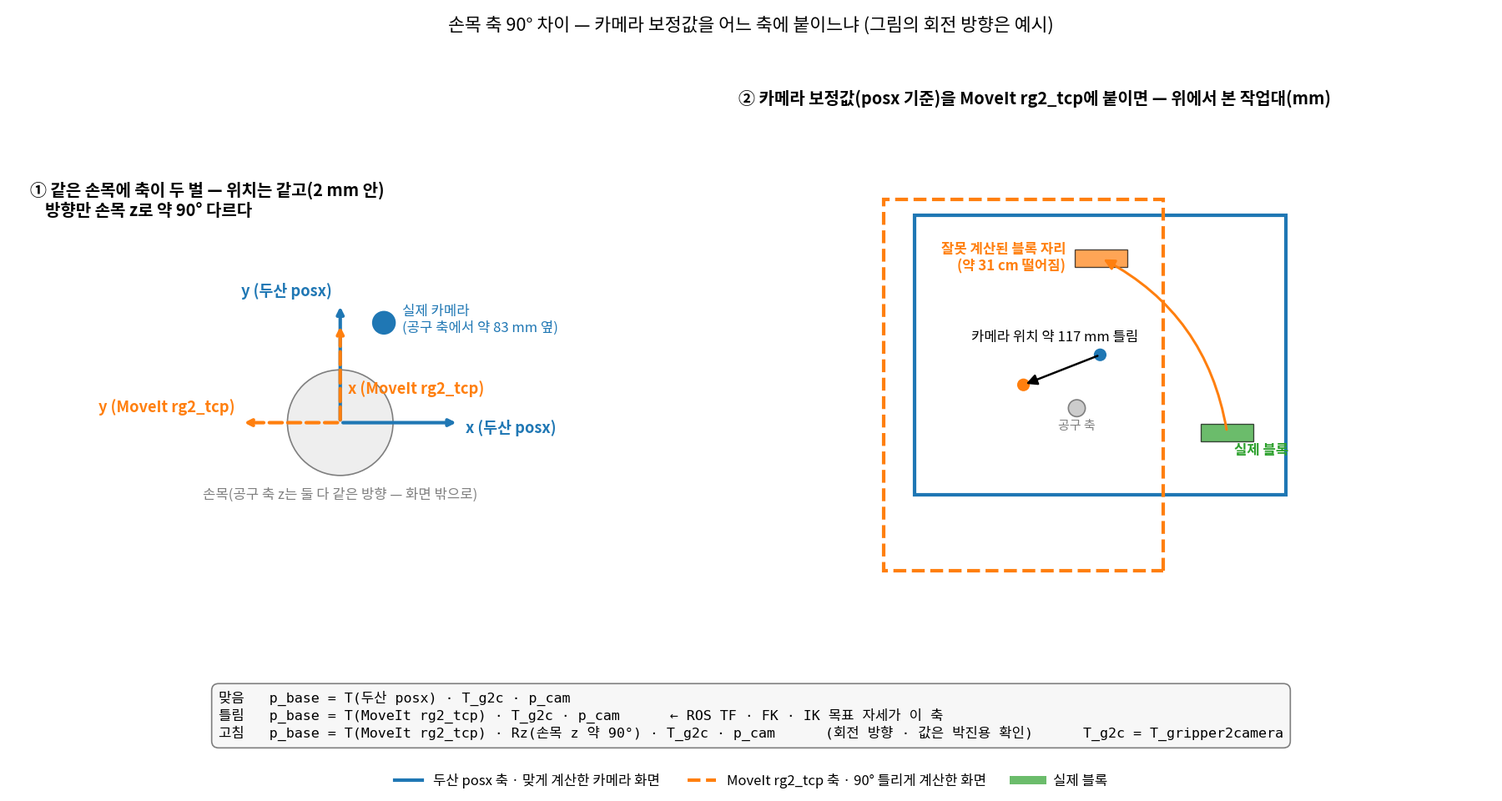
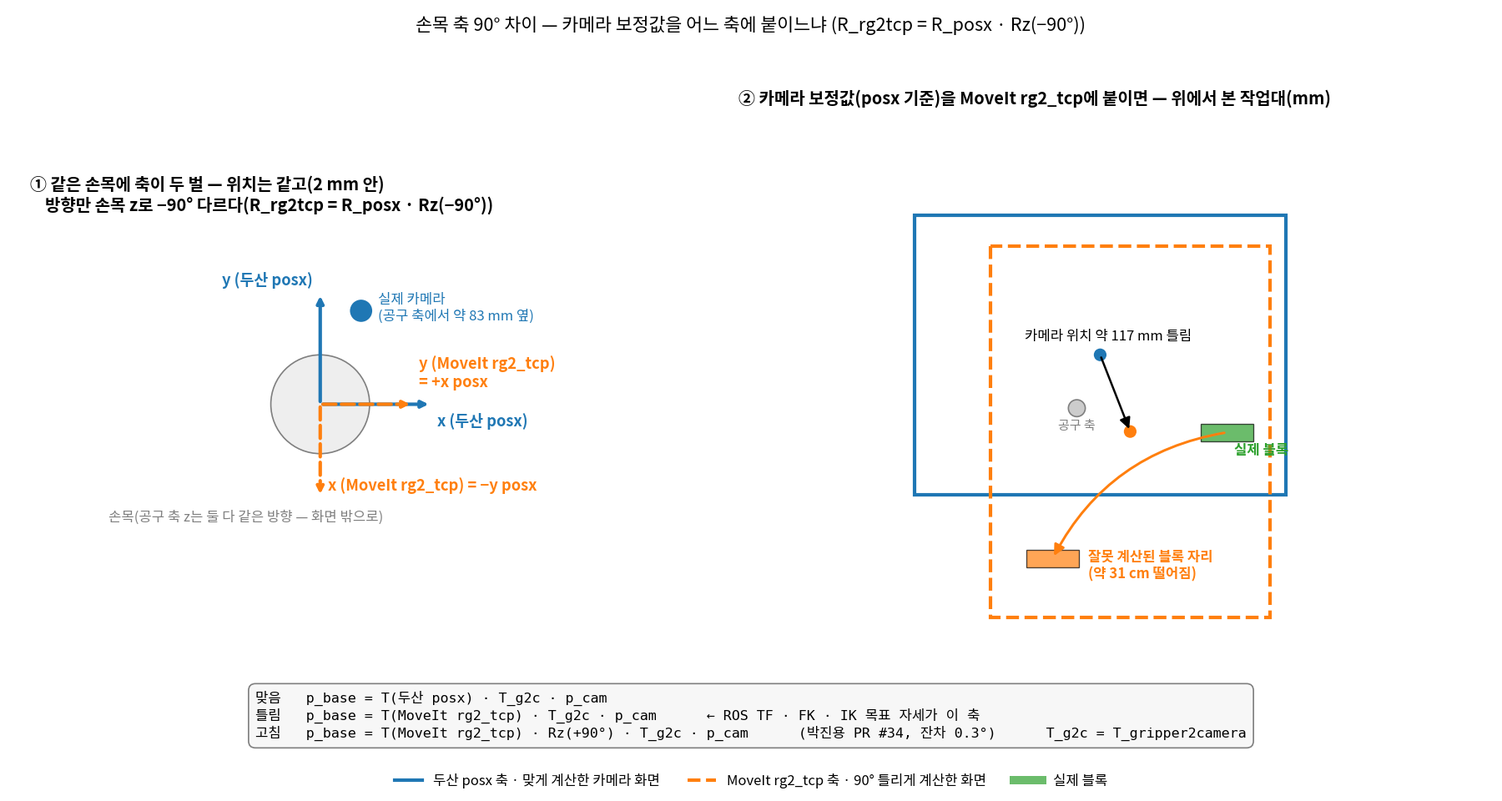
docs: 손목 축 방향 확정 R_rg2tcp = R_posx · Rz(−90°) + 손목 보정 수평 오차 약 10.7 mm 기록 (10/7 박진용)
- 방향 · 값(박진용 PR #34, 잔차 0.3°): MoveIt 자세로 카메라를 구할 땐 T(rg2_tcp) · Rz(+90°) · T_gripper2camera, IK로 카메라 시점은 T_rg2tcp = T_cam · T_g2c⁻¹ · Rz(−90°). 그림의 회전 방향도 확정값으로.
- 세 번째 원인: 손목 보정 수평 오차 약 10.7 mm(그리퍼 틀 (−1.1, +10.7) mm, 손목을 따라 돌아감) → find_blocks · 스캔 약 1 cm 밀림, V-15 미달, 보정 다시(민범진).

변경 파일: CHANGES.md, README.md, docs/01_요구사항_BR-SR_v3_100714.md, docs/02_인터페이스_IRD_v3_100714.md, docs/03_설계_SDD_v3_100714.md, docs/04_결과_결과표_v2_100714.md, docs/README.md, docs/decisions/결정기록_PC배치_MQTT_CI_1006_v1_100714.md, docs/decisions/결정기록_주제확정_1003_v1_100415.md, docs/images/손목축_posx_rg2tcp_90도_v1_100714.png, docs/research/README.md, docs/test-reports/README.md, docs/test-reports/V-01-04_블록쌓기실험_황인재_한세교_v1_100314.md, docs/test-reports/V-08_MoveIt2_가상시험_박진용_v1_100316.md
영향: 비전(W115 · W086 · 보정) · 로봇 동작 — 문서만
완료: 없음

diff --git a/docs/decisions/결정기록_PC배치_MQTT_CI_1006_v1_100714.md b/docs/decisions/결정기록_PC배치_MQTT_CI_1006_v1_100714.md
@@ -55,7 +55,7 @@
 
 ## 6. 이 결정으로 바뀐 문서
 
-[IRD v3](../02_인터페이스_IRD_v3_100714.md)(3장 노드 표 · 10장 MQTT 다리 · 9장 `mqtt.*` · 11장 mock · 12장 미정) · [SDD v3](../03_설계_SDD_v3_100714.md)(1장 PC 배치 · 2장 네트워크 · 3장 패키지 `web/` · `d2_bridge` · 9장 시험 계획 CI) · [01 요구사항 v3](../01_요구사항_BR-SR_v3_100714.md)(FR-T05 · T07 · NFR-09 · 10 · 16 · TR-01 · 03 · 06 · 10 · 13) · [05 작업 분류](../05_작업분류_파트별_v2_100714.md)(W029 · W047 · W102 · W088 바뀜, 새 작업 W126~W129) · [06 팀 규칙](../06_팀협업규칙_v1_100712.md)(PR 검사 · CI · 컨테이너) · [04 결과표](../04_결과_결과표_v2_100713.md)(AC-T · V-33) · [시스템 아키텍처 v4](../images/) · [아키텍처 설명 v3](../시스템아키텍처_설명_v3_100713.md) · [env](../env/README.md) · 에이전트 프롬프트 v4 · README · `CLAUDE.md` · 일정표 v8 · `.github/workflows/ci.yml` · `tests/`
+[IRD v3](../02_인터페이스_IRD_v3_100714.md)(3장 노드 표 · 10장 MQTT 다리 · 9장 `mqtt.*` · 11장 mock · 12장 미정) · [SDD v3](../03_설계_SDD_v3_100714.md)(1장 PC 배치 · 2장 네트워크 · 3장 패키지 `web/` · `d2_bridge` · 9장 시험 계획 CI) · [01 요구사항 v3](../01_요구사항_BR-SR_v3_100714.md)(FR-T05 · T07 · NFR-09 · 10 · 16 · TR-01 · 03 · 06 · 10 · 13) · [05 작업 분류](../05_작업분류_파트별_v2_100714.md)(W029 · W047 · W102 · W088 바뀜, 새 작업 W126~W129) · [06 팀 규칙](../06_팀협업규칙_v1_100712.md)(PR 검사 · CI · 컨테이너) · [04 결과표](../04_결과_결과표_v2_100714.md)(AC-T · V-33) · [시스템 아키텍처 v4](../images/) · [아키텍처 설명 v3](../시스템아키텍처_설명_v3_100713.md) · [env](../env/README.md) · 에이전트 프롬프트 v4 · README · `CLAUDE.md` · 일정표 v8 · `.github/workflows/ci.yml` · `tests/`
 
 ## 7. 10/6 20시 추가 결정 — 흩어진 블록 집기를 핵심으로 (E-36~E-38)
 
@@ -108,7 +108,7 @@ PL 질문 "비전팀이 학습시킬 모델이 없나?" → 흩어진 블록 집
 |---|---|---|
 | **E-43** | **한쪽이 다른 블록에 걸쳐 기울어진 블록.** 핵심: `find_blocks`가 윤곽 안 깊이로 기울기를 재 양 끝 높이 차가 5 mm(안) 이상이면 `tilted: true`(안)로 낸다 — 윗면 높이 하나로만 자세를 정하면 평균 약 22 mm라 옆세움(25)과 헷갈리고, '가장 높은 것부터' 규칙(E-36 — 10/7 E-46으로 바뀜)에 먼저 골라진다. 작업 판단은 **기울어진 블록과 그 블록이 걸친(닿은) 블록은 고르지 않고 다른 블록부터** 집는다. 그런 블록만 남으면 `WAIT_SUPPLY` + 알림 `tilted_block`(안, "기울어진 블록을 바로 놓아 주세요") → 사람이 바로 놓고 [계속]. **챌린지 ④(나중에): 기울어진 블록을 집어 공급 영역 빈 자리에 눕혀 놓고 다시 집기**(2단계, 세우기 E-37과 같은 방식). **챌린지를 구현 못 하면 문서 · 일정표에서 지운다** | PL 10/7 09시 |
 
-**이 결정으로 바뀐 문서(10/7):** [01 요구사항](../01_요구사항_BR-SR_v3_100714.md) BR-09 · 2.4 · FR-S03 · S04 · AC-C4 · V-54 · [IRD](../02_인터페이스_IRD_v3_100714.md) `find_blocks` · `message_id` · [SDD](../03_설계_SDD_v3_100714.md) §6.11 · §10 · [04 결과표](../04_결과_결과표_v2_100713.md) 2-3 · [05 작업 분류](../05_작업분류_파트별_v2_100714.md) W086 · W130 · 6장 · 새 작업 W135 · [아키텍처 설명](../시스템아키텍처_설명_v3_100713.md) · 에이전트 프롬프트 · 일정표 v10
+**이 결정으로 바뀐 문서(10/7):** [01 요구사항](../01_요구사항_BR-SR_v3_100714.md) BR-09 · 2.4 · FR-S03 · S04 · AC-C4 · V-54 · [IRD](../02_인터페이스_IRD_v3_100714.md) `find_blocks` · `message_id` · [SDD](../03_설계_SDD_v3_100714.md) §6.11 · §10 · [04 결과표](../04_결과_결과표_v2_100714.md) 2-3 · [05 작업 분류](../05_작업분류_파트별_v2_100714.md) W086 · W130 · 6장 · 새 작업 W135 · [아키텍처 설명](../시스템아키텍처_설명_v3_100713.md) · 에이전트 프롬프트 · 일정표 v10
 
 ## 13. 10/7 10~11시 추가 결정 — 레시피 형식 이름 · 스캔 일치율 기준 (E-44 · E-45)
 
@@ -117,7 +117,7 @@ PL 질문 "비전팀이 학습시킬 모델이 없나?" → 흩어진 블록 집
 | **E-44** | **레시피 형식 이름 = `cad_recipe/1.0`**(10/7 11시 PL — 10시 결정을 고침). **파일 이름 `<모델ID>.recipe.json`은 그대로**(`_recipe.json`으로 바꾸지 않는다). 코드는 W121(1차 판정 뒤)에 이 순서로 바꾼다: ① 변환기 ② `SCHEMA_IN`이 `assembly.recipe/1.0` · `cad_recipe/1.0` 둘 다 받음(한석형) → ② 레시피 3종 + `recipe_manager` 출력을 `cad_recipe/1.0`으로(한세교) → ③ 변환기 ②는 `cad_recipe/1.0`만 받고 시험 fixture도 바꿈(한석형). 옛 Advanced 형식 `m0609.jenga.cad_recipe/1.0`(구조가 다름) 읽기는 `motion_math`에 그대로 둔다 | 10시에는 '이름만 바꾸면 순서가 어긋날 때 조립이 멈춘다'는 이유로 `assembly.recipe/1.0` 유지로 정했으나, 그 전에 PL이 한세교와 `cad_recipe/1.0`(W121)을 합의했었다(한세교 재검토 요청). 읽는 쪽이 두 이름을 먼저 다 받으면 그 위험이 없고(이름 검사는 변환기 ② 한 곳), 레시피 안 모델 · 계획은 이미 `cad_model` · `cad_plan`(PR #25)이라 이름이 맞춰진다. 파일 이름 변경은 `d2_bringup/setup.py`(레시피 설치 glob) · `scene_manager_node` · `run_recipe`가 `*.recipe.json`을 찾아 실기 경로를 건드려서 하지 않는다 |
 | **E-45** | **V-48 스캔 일치율에서 블록 하나 '맞음' = 정답과 같은 격자 자리 + 같은 방향**(x · y · xe · ye · zx · zy). mm 거리 기준은 두지 않는다. **일치율 = 맞은 수 ÷ (정답 · 추론 블록 수 중 큰 쪽)** — 놓친 블록과 없는 블록을 둘 다 감점, 추정(`inferred`) 블록도 센다. **원점 = 추론 결과의 바닥 외곽 가운데를 (0,0)으로**(정답 blocks JSON과 같은 기준, IRD 12장 안 그대로). **정답 = 레시피를 변환기 ②로 바꾼 blocks JSON** — 10/7 W114에서 기본 설계 3개(벤치 · 의자 Lv2 · 책상 Lv4)를 층별 배치 그림대로 사람이 쌓고, 책상 벽형은 레시피가 나온 뒤 10/10 이후 따로 찍는다(10/7 11시 PL) | 스캔 추론기가 블록을 15 · 25 · 75 mm 격자에 맞춰 놓으므로 자리는 칸으로만 갈린다 — 판정이 단순하고 애매한 경우가 없다(10/7 민범진 질문 → PL) |
 
-**이 결정으로 바뀐 문서(10/7):** [01 요구사항](../01_요구사항_BR-SR_v3_100714.md) FR-C03 · FR-D07 · IR-11 · 용어 · FR-N02 · V-48 · [IRD](../02_인터페이스_IRD_v3_100714.md) `get_design` · `check_result/1` · [SDD](../03_설계_SDD_v3_100714.md) 변환기 ① · 스캔 · [04 결과표](../04_결과_결과표_v2_100713.md) V-48 · [05 작업 분류](../05_작업분류_파트별_v2_100714.md) · [시스템 아키텍처 설명](../시스템아키텍처_설명_v3_100713.md) · README · 에이전트 프롬프트. 같은 때 **10/9 계획을 문서에서 뺐다**(10/5 PL: 10/9 '작업 없음'은 일정표에만) — 스캔 추론기(W115) 10/8 저녁 · 10/10~11, 스캔 복제 10/10~12, 10/9 마감이던 열린 질문은 10/10.
+**이 결정으로 바뀐 문서(10/7):** [01 요구사항](../01_요구사항_BR-SR_v3_100714.md) FR-C03 · FR-D07 · IR-11 · 용어 · FR-N02 · V-48 · [IRD](../02_인터페이스_IRD_v3_100714.md) `get_design` · `check_result/1` · [SDD](../03_설계_SDD_v3_100714.md) 변환기 ① · 스캔 · [04 결과표](../04_결과_결과표_v2_100714.md) V-48 · [05 작업 분류](../05_작업분류_파트별_v2_100714.md) · [시스템 아키텍처 설명](../시스템아키텍처_설명_v3_100713.md) · README · 에이전트 프롬프트. 같은 때 **10/9 계획을 문서에서 뺐다**(10/5 PL: 10/9 '작업 없음'은 일정표에만) — 스캔 추론기(W115) 10/8 저녁 · 10/10~11, 스캔 복제 10/10~12, 10/9 마감이던 열린 질문은 10/10.
 
 ## 14. 10/7 11시 추가 결정 — 집을 블록 고르기 기준 (E-46)
 
@@ -143,7 +143,7 @@ PL 질문 "비전팀이 학습시킬 모델이 없나?" → 흩어진 블록 집
 |---|---|---|
 | **E-50** | **10/7 1차 판정(판정 회의 W072)을 없앤다.** 1차 범위(자동 조립 + 정지)와 수락 기준 AC-1(벤치 11개 3번 중 2번) · AC-3(정지 입력 4개 + 펜던트)은 그대로 두고, 결과는 실기 기록(W063 · W059)으로 04 결과표에 채운다. 일정표 W072는 '뺀 작업' 시트로 옮기고 번호는 다시 쓰지 않는다. W072에 같이 있던 '챌린지 순서 · 담당 확정'은 새 작업 **W136 — 10/8 오전 전원 회의**로 뗀다(10/7 14시 PL). **1차 판정용 작업 W022(녹화) · W063(자동 조립 실기) · W097(기능별 통합 ②)도 '뺀 작업'으로**(10/7 14시 PL) — W063의 벤치 11/11 실기 기록은 AC-1 결과로 남긴다 | PL 10/7 13시 · 14시 |
 
-**이 결정으로 바뀐 문서(10/7):** [README](../../README.md) · [01 요구사항](../01_요구사항_BR-SR_v3_100714.md) 머리표 · S3 · [IRD](../02_인터페이스_IRD_v3_100714.md) 8.1 · [SDD](../03_설계_SDD_v3_100714.md) §9.1 · §9.2 · [04 결과표](../04_결과_결과표_v2_100713.md) · [05 작업 분류](../05_작업분류_파트별_v2_100714.md) · [docs README](../README.md) · [시스템 아키텍처 설명](../시스템아키텍처_설명_v3_100713.md) · 결정 기록 E-23 표시 · 에이전트 프롬프트 · 일정표 v10(W072 → 뺀 작업). '1차' 범위 이름(수락 기준 · 요구사항 우선순위의 '1차')은 그대로 둔다
+**이 결정으로 바뀐 문서(10/7):** [README](../../README.md) · [01 요구사항](../01_요구사항_BR-SR_v3_100714.md) 머리표 · S3 · [IRD](../02_인터페이스_IRD_v3_100714.md) 8.1 · [SDD](../03_설계_SDD_v3_100714.md) §9.1 · §9.2 · [04 결과표](../04_결과_결과표_v2_100714.md) · [05 작업 분류](../05_작업분류_파트별_v2_100714.md) · [docs README](../README.md) · [시스템 아키텍처 설명](../시스템아키텍처_설명_v3_100713.md) · 결정 기록 E-23 표시 · 에이전트 프롬프트 · 일정표 v10(W072 → 뺀 작업). '1차' 범위 이름(수락 기준 · 요구사항 우선순위의 '1차')은 그대로 둔다
 
 ## 17. 10/7 14시 추가 결정 — 10/9 · 비전 10/8~11 담당 · 우선순위 (E-51)
 

diff --git a/docs/test-reports/README.md b/docs/test-reports/README.md
@@ -1,6 +1,6 @@
 # 시험 기록 (test-reports) — 색인
 
-> 실기 · 가상 시험 기록 중 **설계 · 결과의 근거가 되는 것**을 모은다. 요약 수치는 [결과표](../04_결과_결과표_v2_100713.md)에 있다. 영상 · 코드 · 압축 파일은 저장소에 넣지 않는다(팀 노션 결과 페이지).
+> 실기 · 가상 시험 기록 중 **설계 · 결과의 근거가 되는 것**을 모은다. 요약 수치는 [결과표](../04_결과_결과표_v2_100714.md)에 있다. 영상 · 코드 · 압축 파일은 저장소에 넣지 않는다(팀 노션 결과 페이지).
 >
 > 파일 이름: `<ID>_<내용>_<이름>_v1_<MMDDHH>.md` (예: `V-01-04_블록쌓기실험_황인재_한세교_v1_100314.md`). ID는 검증 항목 번호(V-xx) 또는 위험 · 할 일 번호(R-xx). 고칠 때는 [docs 안내](../README.md)의 문서 파일 이름 규칙대로 `tools/docver.py`를 쓴다.
 >
@@ -13,7 +13,7 @@
 | [R-01_정지수정_가상시험_v1_100415.md](R-01_정지수정_가상시험_v1_100415.md) | 10/4 R-01 정지 수정본 — Ctrl+C · 앞길 막힘 때 서기 궤적으로 서는지(원본과 비교) | 가상. 원본은 4.4~5.0초 동안 75~77° 더 감 → 수정본 Ctrl+C 7번 모두 0.58~1.12초 안에 섬. [TS-01](../troubleshooting/TS-01_정지가_안_들음_R-01_v1_100519.md) · 결정 D-11(정지 노드) · NFR-03 · 팀 규칙(정지 처리 필수)의 근거. **실기 확인 완료(10/4 오후, W010)** — 박진용이 Ctrl+C 즉시 정지를 구현해 실제 로봇에서 바로 섬(코드는 PR 예정) |
 | [W057-059_안전설정_잡기폭_오전실기_박진용_v1_100711.md](W057-059_안전설정_잡기폭_오전실기_박진용_v1_100711.md) | 10/7 오전 — 두산 안전 설정(TCP 속도 · 힘 · 충돌 감도) · 정지 입력 · 잡기 6가지 여는 폭 · 공급 칸 보정 | 실기. 속도 제한 2000 mm/s · 힘 96 N · 감도 100 %, 잡기 폭 시험 6/6. W057 · W059 · PR #27 |
 | [W048_레시피3종_실물조립_한세교_v1_100621.md](W048_레시피3종_실물조립_한세교_v1_100621.md) | 10/6 저녁 레시피 3종(001 의자 좌판 · 002 의자 등받이 · 003 책상) 실물 조립 — 10/6 교시값 · speed 0.3 | 실기. **11/11 · 16/16 · 9/9**, 블록당 20~26 s. 바닥층만 살짝 떨어뜨리듯 놓음(원인 미확정, 틈 실측 예정). W048 · PR #15 |
-| (결과 보고서는 저장소에 없음 — 수치만 결과표에) | 10/3 작업 2(한석형) — R-0 로봇 준비 · V-16 충돌 시 정지 · V-20 파지 유지 · V-11 놓을 때 밀림 | 실기. 미끄러짐 0/13 · 3층 밀림 최대 0.4 mm(스펀지 위) · 충돌 감도 100 %. [결과표](../04_결과_결과표_v2_100713.md) §3 |
+| (결과 보고서는 저장소에 없음 — 수치만 결과표에) | 10/3 작업 2(한석형) — R-0 로봇 준비 · V-16 충돌 시 정지 · V-20 파지 유지 · V-11 놓을 때 밀림 | 실기. 미끄러짐 0/13 · 3층 밀림 최대 0.4 mm(스펀지 위) · 충돌 감도 100 %. [결과표](../04_결과_결과표_v2_100714.md) §3 |
 | (결과 보고서는 저장소에 없음 — 수치만 결과표에) | 10/3 작업 4(민범진) — V-17 손목 카메라 블록 위치 · V-18 음성 받아 적기 | 실기(로봇 정지 상태) · 마이크. 놓기 전후 비교 ±0.5 mm · STT 평균 1.8초 · '정지' 5/10 → 음성 정지는 보조, 출발은 화면만(D-32 · A9-1). 결과표 §3 |
 | (결과 보고서 없음 — 결과표에) | 10/3 저녁 V-07 MoveIt2 실기(박진용) | 실기. 공중에 둔 사람 팔을 피해 감 · 끊김 · 떨림 없음(PL 확인). 수치는 10/4 재검증에서 |
 | (결과 보고서는 아직 없음 — 결과표에) | 10/4 오후 MoveIt2 실기 재검증(박진용, 일정표 W010) — MoveIt2 동작 · 실행 중 Ctrl+C 정지 | 실기. **MoveIt2 동작 정상.** 처음에는 Ctrl+C가 동작이 끝난 뒤에야 들음 → 박진용이 Ctrl+C 즉시 정지를 구현해 바로 서는 것 확인. 정지 시간 수치 ＿＿ · 블록 쥔 채 계획([TS-02](../troubleshooting/TS-02_블록_쥔_채_계획_실패_R-03_v1_100414.md))은 ＿＿ |
@@ -22,4 +22,4 @@
 | (예정 — 10/7 오전, 일정표 W059) | R-02 재시험 — 정지 → 재개 · 보호 정지 해제 · 충돌 감지 | 실기. ＿＿ |
 | (예정 — 10/7 오전, 일정표 W063) | 전체 통합 ① 자동 모드 실기 — 벤치(`001_CHAIR_BENCH`) 11개, 3번. 블록당 시간 · V-11 · V-15 · PC 부하(W053) 같이 기록. **영상도 실기 중에 찍는다**(S-12, 따로 촬영 없음) | 실기. ＿＿ / 3 |
 | (예정 — 10/7 오후, 일정표 W067 · 대비책이면 10/8 오전 W073) | 전체 통합 ② 협동 최소형 실기 — 사람 2~3개 → 화면 버튼 '내 차례 끝' → 로봇 이어 쌓기 1번. 영상도 같이 | 실기. ＿＿ |
-| (진행 중 — 결과가 오면 파일 추가) | 10/4 그리퍼 다시 재기 — 손가락 치수 · TCP · 잡기별 표시폭 · 집는 높이 · V-20 다시(옆면 · 끝면 10 N 각 5번) | 실기 · 로봇 동작 파트. ＿＿ → [결과표](../04_결과_결과표_v2_100713.md) §4 |
+| (진행 중 — 결과가 오면 파일 추가) | 10/4 그리퍼 다시 재기 — 손가락 치수 · TCP · 잡기별 표시폭 · 집는 높이 · V-20 다시(옆면 · 끝면 10 N 각 5번) | 실기 · 로봇 동작 파트. ＿＿ → [결과표](../04_결과_결과표_v2_100714.md) §4 |

diff --git a/docs/README.md b/docs/README.md
@@ -2,14 +2,14 @@
 
 AI가 설계하고 로봇이 조립하는 젠가 가구(D2팀)의 요구사항 · 인터페이스 · 설계 · 결과 문서와 근거 자료를 모은 폴더다. **10/6 주제 개편**(요청 → AI 설계 튜닝 · 생성 → 검사 → DB 세대 관리 → 로봇 조립 + 스캔 복제, 협동 모드는 챌린지)을 반영한 v3/v2 문서가 정본이다. 1차는 자동 조립 + 정지(10/7 판정 회의는 없앰, E-50), 핵심은 10/13 동결까지.
 
-처음 읽는 순서: [10/6 결정 기록](decisions/결정기록_주제개편_1006_v1_100713.md)(무엇이 바뀌었나) → [10/6 저녁 PC 배치 · MQTT · CI](decisions/결정기록_PC배치_MQTT_CI_1006_v1_100714.md)(웹 PC에 ROS 없음, PC 사이 MQTT) → [03 설계](03_설계_SDD_v3_100714.md)(어떻게 만드나) → [02 인터페이스](02_인터페이스_IRD_v3_100714.md)(코드를 짤 때 이름 · 칸 · 단위 — 새 것은 '안', 10/7 오전 확정) → [05 작업 분류](05_작업분류_파트별_v2_100714.md)(내 파트의 할 일, 새 작업 W108~) → [06 팀 협업 규칙](06_팀협업규칙_v1_100712.md). 목표와 판정 기준은 [01 요구사항](01_요구사항_BR-SR_v3_100714.md), 지금까지 얻은 값은 [04 결과표](04_결과_결과표_v2_100713.md)에 있다.
+처음 읽는 순서: [10/6 결정 기록](decisions/결정기록_주제개편_1006_v1_100713.md)(무엇이 바뀌었나) → [10/6 저녁 PC 배치 · MQTT · CI](decisions/결정기록_PC배치_MQTT_CI_1006_v1_100714.md)(웹 PC에 ROS 없음, PC 사이 MQTT) → [03 설계](03_설계_SDD_v3_100714.md)(어떻게 만드나) → [02 인터페이스](02_인터페이스_IRD_v3_100714.md)(코드를 짤 때 이름 · 칸 · 단위 — 새 것은 '안', 10/7 오전 확정) → [05 작업 분류](05_작업분류_파트별_v2_100714.md)(내 파트의 할 일, 새 작업 W108~) → [06 팀 협업 규칙](06_팀협업규칙_v1_100712.md). 목표와 판정 기준은 [01 요구사항](01_요구사항_BR-SR_v3_100714.md), 지금까지 얻은 값은 [04 결과표](04_결과_결과표_v2_100714.md)에 있다.
 
 | 경로 | 내용 |
 |---|---|
 | [01_요구사항_BR-SR_v3_100714.md](01_요구사항_BR-SR_v3_100714.md) | 목적 · 범위(1차 · 핵심 · 챌린지) · BR · FR(입력 I · AI 생성 G · 검사 · 변환 C · 설계도 · DB D · 스캔 N · 인식 S · 동작 M · 작업 관리 T) · NFR · 안전 SR · 인터페이스 IR · 기술 TR · 수락 기준 AC · KPI · 위험 · 시험 ID V-44~V-53 |
 | [02_인터페이스_IRD_v3_100714.md](02_인터페이스_IRD_v3_100714.md) | **이름 · 칸의 정본** — `/d2/` 토픽 · 서비스 · 액션, 전용 메시지 7개 + `JsonQuery`, 블록 JSON · 레시피 형식, 실패 코드, `robot.yaml` 키(10/6 박진용 값 + `mqtt.*`), 호출 순서(조립 · 정지 · 생성 · 스캔), **10장 PC 사이 MQTT 다리** |
 | [03_설계_SDD_v3_100714.md](03_설계_SDD_v3_100714.md) | PC 배치(웹 PC · 로봇 PC) · 네트워크(MQTT 다리) · 패키지(`web/` · `d2_bridge`) · 노드 · 상태 머신(스캔 · 공급 상태 포함) · 기능별 절차(조립 · AI 생성 · 검사 묶음 · 변환기 · DB · 스캔 추론기) · 예외 · 안전 · 시험 계획 |
-| [04_결과_결과표_v2_100713.md](04_결과_결과표_v2_100713.md) | 1차 · 핵심 수락 기준 현황 · 10/3 사전 검증 값 · 10/4 · 10/6 실기 · 그리퍼 값 · KPI · 사고와 교훈 |
+| [04_결과_결과표_v2_100714.md](04_결과_결과표_v2_100714.md) | 1차 · 핵심 수락 기준 현황 · 10/3 사전 검증 값 · 10/4 · 10/6 실기 · 그리퍼 값 · KPI · 사고와 교훈 |
 | [05_작업분류_파트별_v2_100714.md](05_작업분류_파트별_v2_100714.md) | 파트별 할 일(10/6 개편) · 파트 사이 주고받는 것 · 날짜별 체크포인트 · 챌린지 · 뺀 작업 · 새 작업 W108~W134 |
 | [06_팀협업규칙_v1_100712.md](06_팀협업규칙_v1_100712.md) | 팀 규칙 10개 · 매일 운영 · 코드 · 브랜치 · 커밋 · PR · 보안 · 컨테이너 · 로봇 안전 · 문서 이름 · 에이전트 사용 |
 | [decisions/](decisions/) | 결정 기록 — 10/3 주제 확정, 10/4 시나리오 · 역할 · 인터페이스(D-01 등 · S-01~S-28), **10/6 주제 개편(E-01~E-25)**, **10/6 저녁 PC 배치 · MQTT · CI(E-26~E-45)** |

diff --git a/docs/01_요구사항_BR-SR_v3_100714.md b/docs/01_요구사항_BR-SR_v3_100714.md
@@ -6,7 +6,7 @@
 | 문서 ID | REQ-D2-JENGA-001 · **v3** (2026-10-06) — **10/6 주제 개편(E-01~E-25)** 을 반영해 v2(10/4)를 다시 썼다. 바뀐 결정은 [결정 기록 10/6](decisions/결정기록_주제개편_1006_v1_100713.md), 그대로 유효한 결정(정지 · MoveIt2 · 좌표 · 그리퍼 · 코드 규칙 · S-01~S-17)은 [결정 기록 10/4](decisions/결정기록_시나리오_역할_인터페이스_1004_v1_100609.md)에 있다. v2 본문은 git 이력에 있다. 10/7 고침: 웹 frontend · backend(E-41) · 미리보기 three.js 하나 · STT Whisper(E-40) — 맨 아래 변경 이력 |
 | 팀 | ROKEY 9기 협동2 · D2팀 — 한석형 · 민범진 · 박진용 · 황인재(PL) · 한세교 |
 | 장비 | 두산 M0609 1대 + OnRobot RG2 그리퍼 + 손목 카메라 RealSense D435i + 마이크 + 웹 화면 + PC 2대(**로봇 PC**(ROS 2 전부) · **웹 PC**(화면 · DB · MQTT 브로커, ROS 없음) — E-26). **웹캠은 쓰지 않는다**(E-19) |
-| 관련 문서 | [02_인터페이스_IRD_v3_100714.md](02_인터페이스_IRD_v3_100714.md)(이름 · 칸의 정본) · [03_설계_SDD_v3_100714.md](03_설계_SDD_v3_100714.md)(구조 · 상태표 · 시험 절차) · [04_결과_결과표_v2_100713.md](04_결과_결과표_v2_100713.md)(수락 기준 현황) · [05_작업분류_파트별_v2_100714.md](05_작업분류_파트별_v2_100714.md) · [06_팀협업규칙_v1_100712.md](06_팀협업규칙_v1_100712.md) · 결정 기록 [10/3](decisions/결정기록_주제확정_1003_v1_100415.md) · [10/4](decisions/결정기록_시나리오_역할_인터페이스_1004_v1_100609.md) · [10/6 주제 개편](decisions/결정기록_주제개편_1006_v1_100713.md) |
+| 관련 문서 | [02_인터페이스_IRD_v3_100714.md](02_인터페이스_IRD_v3_100714.md)(이름 · 칸의 정본) · [03_설계_SDD_v3_100714.md](03_설계_SDD_v3_100714.md)(구조 · 상태표 · 시험 절차) · [04_결과_결과표_v2_100714.md](04_결과_결과표_v2_100714.md)(수락 기준 현황) · [05_작업분류_파트별_v2_100714.md](05_작업분류_파트별_v2_100714.md) · [06_팀협업규칙_v1_100712.md](06_팀협업규칙_v1_100712.md) · 결정 기록 [10/3](decisions/결정기록_주제확정_1003_v1_100415.md) · [10/4](decisions/결정기록_시나리오_역할_인터페이스_1004_v1_100609.md) · [10/6 주제 개편](decisions/결정기록_주제개편_1006_v1_100713.md) |
 | 일정 | 10/1(목)~10/16(금) · **1차 = 자동 조립(벤치 11개) + 정지**(E-23 — 10/7 판정 회의는 없앰, E-50) · 10/7~13 **핵심**(AI 생성 · 검사 · DB · 생성 설계 조립 · 스캔 복제) · 기능 동결 10/13 저녁 · 리허설 10/14~15 · **10/16(금) 시연 · 발표** |
 
 **문서 경계**: 이 문서는 "왜 필요한가(BR)", "무엇을 해야 하는가(FR · NFR)", "어떻게 안전해야 하는가(SR)", "무엇과 무엇이 어떻게 이어지는가(IR, 요약)", "어떤 기술 · 제약을 지켜야 하는가(TR)", "어디까지 하면 성공인가(AC · KPI)"를 정한다. 이름 · 칸의 정확한 정의는 IRD, 노드 구조 · 상태표 · 좌표 · 오류 처리 · 시험 절차는 SDD, 결과는 결과표가 정한다. 일정은 팀 일정표(협동2_개발일정 v10, 작업 번호 W001~)로 관리한다. 강사 Notion "Business Requirements" 양식(BR/SR/FR/NFR/IR/TR + 추적표)을 따른다.
@@ -429,7 +429,7 @@
 
 ## 8. 수락 기준 (AC)
 
-현황은 [04_결과_결과표_v2_100713.md](04_결과_결과표_v2_100713.md)에 적는다.
+현황은 [04_결과_결과표_v2_100714.md](04_결과_결과표_v2_100714.md)에 적는다.
 
 ### 8.1 1차 완료 판정 (10/7 저녁, E-23)
 
@@ -524,7 +524,7 @@
 
 ## 11. 검증 계획과 시험 ID
 
-시험 절차는 [03_설계_SDD_v3_100714.md](03_설계_SDD_v3_100714.md), 결과는 [04_결과_결과표_v2_100713.md](04_결과_결과표_v2_100713.md)와 `test-reports/`에 적는다.
+시험 절차는 [03_설계_SDD_v3_100714.md](03_설계_SDD_v3_100714.md), 결과는 [04_결과_결과표_v2_100714.md](04_결과_결과표_v2_100714.md)와 `test-reports/`에 적는다.
 
 ### 11.1 10/3 사전 검증 결과 (V-01~V-20, 요약) — 바뀌지 않음
 

diff --git a/docs/04_결과_결과표_v2_100714.md b/docs/04_결과_결과표_v2_100714.md
@@ -78,7 +78,7 @@
 | **(10/6)** | **LV1 벤치 11개 자동 조립**(`LV1.recipe.json`, 공급 1 · 3번 번갈아, 속도 0.1, 10 N) | 10/6 낮 | **11/11 · 337초 · 보호 정지 · 파지 실패 0.** 파지 폭 FLAT_SHORT 23.9~24.9(기대 25) · FLAT_LONG 74.9~75.2(기대 75). 놓을 때 살짝 삐끗 → 좌판 85 mm만 열기 · 높이 1~2 mm 조정 시험 | 참고(시제품) |
 | **(10/6)** | **팀 노드로 벤치 11개 자동 조립**(PR #7 · #10 · #14, 10/6 다시 잰 값, 속도 0.3, 수직 충돌 검사 촘촘히) | 10/6 밤 | **11/11 · 230초**(박진용) | 참고 → 10/7 W063이 V-36 |
 | **(10/6)** | **레시피 3종 실물 조립**(한세교 recipe_manager, PR #15) | 10/6 | **벤치 11/11 · 의자 Lv2 16/16 · 책상 Lv4 9/9.** 바닥층만 살짝 떨어뜨리듯 놓음(원인 미확정 — 블록 바닥 틈 실측 예정) | 참고 → W118 선행 |
-| V-15 준비 | 손목 보정(W058) | 10/6 | 작업면 +49.4 mm 상수 오차 → hand-eye z 보정 → 재측정 **−0.5 mm**(민범진, PR #16). 정확도(x · y)는 10/7 W063 때 | 부분 |
+| V-15 준비 | 손목 보정(W058) | 10/6 | 작업면 +49.4 mm 상수 오차 → hand-eye z 보정 → 재측정 **−0.5 mm**(민범진, PR #16). 정확도(x · y): **10/7 오후 박진용 실측 수평 오차 약 10.7 mm**(그리퍼 틀 (−1.1, +10.7) mm — 공급 칸 블록 6개 · 손목 각도 3가지 · 깊이/컬러, 오차가 손목을 따라 돌아감) → 기준 ≤ 2 mm 미달, 보정 다시(민범진). 블록 윗면 −2.8 mm는 기울기(PR #35 `--fix-tilt`) | 미달 |
 | V-25 | 레시피 · 진행표 · 다음 블록 + 기본 설계 4개 읽기 | 10/6 W043 → 10/8 | ＿＿ | 시험 전 |
 | V-26 | 손목 블록 인식 · 배치 확인(있음 · 없음 + 높이, 오차 측정값) | 10/6 W041 → 10/7 W063 | ＿＿ | 시험 전 |
 | V-36 | **1차 자동 조립 실기(벤치 3번 중 2번)** | 10/7 오전 W063 | ＿＿ | 시험 전 |

diff --git a/docs/02_인터페이스_IRD_v3_100714.md b/docs/02_인터페이스_IRD_v3_100714.md
@@ -352,7 +352,7 @@ string reason
 
 ## 9. 설정 파일 `src/d2_bringup/config/robot.yaml`
 
-숫자는 이 파일 **하나**에. 보정 값(손목 hand-eye)만 따로. **주의(10/7 박진용 W134):** 손목 보정값 `T_gripper2camera`(`src/d2_vision/config/`)는 **두산 posx(TCP) 축 기준**이다. MoveIt `rg2_tcp` 축은 위치는 같지만(2 mm 안) 손목 z로 약 90° 돌아가 있으므로 MoveIt 쪽 자세(ROS TF · FK · IK 목표)에 그대로 곱하지 않는다 — [SDD](03_설계_SDD_v3_100714.md) §6.9 주의 · [그림](images/손목축_posx_rg2tcp_90도_v1_100714.png). 틀 = 황인재(W031), 값 = 로봇 동작(W033). **10/6 박진용 값 · 추가 키 반영.** 단위 m(S-28).
+숫자는 이 파일 **하나**에. 보정 값(손목 hand-eye)만 따로. **주의(10/7 박진용 W134):** 손목 보정값 `T_gripper2camera`(`src/d2_vision/config/`)는 **두산 posx(TCP) 축 기준**이다. MoveIt `rg2_tcp` 축은 위치는 같지만(2 mm 안) 손목 z로 −90° 돌아가 있으므로(`R_rg2tcp = R_posx · Rz(−90°)`, 박진용 PR #34) MoveIt 쪽 자세(ROS TF · FK · IK 목표)에 그대로 곱하지 않는다 — 쓸 때는 `T(rg2_tcp) · Rz(+90°) · T_gripper2camera`. 손목 보정값의 수평(x · y) 오차 약 10.7 mm도 10/7 오후 실측(박진용, 보정은 민범진) — [SDD](03_설계_SDD_v3_100714.md) §6.9 주의 · [그림](images/손목축_posx_rg2tcp_90도_v1_100714.png). 틀 = 황인재(W031), 값 = 로봇 동작(W033). **10/6 박진용 값 · 추가 키 반영.** 단위 m(S-28).
 
 | 키 | 뜻 | 값(10/6) | 읽는 노드 |
 |---|---|---|---|

diff --git a/CHANGES.md b/CHANGES.md
@@ -3,6 +3,7 @@
 에이전트는 이 파일의 맨 위 며칠만 읽는다. 자세한 내용은 커밋·PR의 '변경 파일'을 본다.
 
 ## 2026-10-07
+- 비전 · 로봇 동작(15시, PM): **손목 축 방향 확정(박진용)** — `R_rg2tcp = R_posx · Rz(−90°)`(x_rg2 = −y_posx, y_rg2 = +x_posx), MoveIt 자세로 카메라를 구할 때 `T(rg2_tcp) · Rz(+90°) · T_gripper2camera`. **세 번째 원인 기록 — 손목 보정 수평 오차 약 10.7 mm**(박진용 실측, 그리퍼 틀 (−1.1, +10.7) mm) → find_blocks · 스캔 약 1 cm 밀림, V-15 미달, 보정 다시(민범진). SDD §6.9 · IRD 9장 · 04 V-15 · 그림(회전 방향 확정).
 - 비전(15시, PM): **스캔 사진 이름에 자세 태그(PL, 민범진 요청)** — `s<장면>_<번호>_<조명>_<observe|front|side>_<color|depth|pose>`, 장면 11 벤치 · 12 의자 Lv2 · 13 책상 Lv4, YOLO에 안 넣고 드라이브 `1_원본_W114/스캔`에. 장면 번호 01~10 YOLO · 11~13 스캔 · 21~30 V-52 시험. YOLO 데이터 규칙 §2.3 · §4.
 - 비전(15시, PM): **run_id 형식 정함(PL, 한석형 질문)** — `R<YYYYMMDD>_<HHMMSS>_<무작위 16진 4자>`(예 `R20261010_143512_a3f9`), CSV · `state/1` · `build/1` · DB `builds` 키. IRD 2장 이름 표 + 예시 3곳. task `log_dir`은 기본값(`~/d2_data/runs`, 저장소 밖) 그대로(PL).
 - 비전(14시 40분, PM): **W133 완료(PL)** — YOLO 데이터 수집 · 라벨링 규칙의 마지막 남은 것(흩뿌릴 영역 크기)이 W134 결과로 §2.2에 들어감. YOLO 규칙 · 05 · 일정표.

diff --git a/docs/research/README.md b/docs/research/README.md
@@ -1,6 +1,6 @@
 # 조사 자료 (research)
 
-주제 선정("왜 이 주제인가 · 무엇이 다른가")에 쓴 조사와 참고 자료다. 10/3 주제 확정 무렵 조사한 내용이라, 최종 구현은 [설계 문서](../03_설계_SDD_v3_100714.md)와 [결과표](../04_결과_결과표_v2_100713.md)를 따른다.
+주제 선정("왜 이 주제인가 · 무엇이 다른가")에 쓴 조사와 참고 자료다. 10/3 주제 확정 무렵 조사한 내용이라, 최종 구현은 [설계 문서](../03_설계_SDD_v3_100714.md)와 [결과표](../04_결과_결과표_v2_100714.md)를 따른다.
 
 ## 1. 선행 프로젝트와 차별점
 
@@ -31,7 +31,7 @@
 | [Docker 문서](https://docs.docker.com/) | DB · 운영 PC 노드 컨테이너 |
 | [BrickGPT (GitHub)](https://github.com/AvaLovelace1/BrickGPT) | 말 → 구조물 설계 · 안정성 검사 아이디어(챌린지 ③) |
 | 한세교 CAD 예시 · Advanced 레시피(`cad_recipe/1.0`) | 설계도 형식 — 블록마다 자리 · 자세 · sequence · 받침 · 잡기 후보. 1차 설계 lv1_bench 11개. 조립은 DXF, 안정성 검사는 STEP(D-16 · D-40) |
-| 10/3 사전 검증 결과 | 주제 확정 판정 — [시험 기록](../test-reports/) · [결과표](../04_결과_결과표_v2_100713.md) §3 |
+| 10/3 사전 검증 결과 | 주제 확정 판정 — [시험 기록](../test-reports/) · [결과표](../04_결과_결과표_v2_100714.md) §3 |
 
 
 - 교육 과정 강의 자료는 저장소에 옮기지 않는다(필요하면 각자 과정 사이트에서 본다).

diff --git a/docs/test-reports/V-08_MoveIt2_가상시험_박진용_v1_100316.md b/docs/test-reports/V-08_MoveIt2_가상시험_박진용_v1_100316.md
@@ -1,6 +1,6 @@
 # V-08 MoveIt2 경로 · 회피 가상 시험 1~3차 (10/3, 박진용)
 
-> 10/3 사전 검증 작업 3의 결과 보고서(노션)를 저장소로 옮겼다. 내용은 그대로이고 제목과 이 안내만 더했다. 영상(`*.webm`)과 코드(`*.py` · launch · urdf · srdf)는 저장소에 넣지 않았다 — 팀 노션 결과 페이지에 있다. 요약은 [결과표](../04_결과_결과표_v2_100713.md) §3, 정지 문제는 [TS-01](../troubleshooting/TS-01_정지가_안_들음_R-01_v1_100519.md)에 있다.
+> 10/3 사전 검증 작업 3의 결과 보고서(노션)를 저장소로 옮겼다. 내용은 그대로이고 제목과 이 안내만 더했다. 영상(`*.webm`)과 코드(`*.py` · launch · urdf · srdf)는 저장소에 넣지 않았다 — 팀 노션 결과 페이지에 있다. 요약은 [결과표](../04_결과_결과표_v2_100714.md) §3, 정지 문제는 [TS-01](../troubleshooting/TS-01_정지가_안_들음_R-01_v1_100519.md)에 있다.
 >
 > 검증 수준: **가상**(두산 에뮬레이터). 10/3 저녁 실기(V-07)와 10/4 실기 재검증은 이 보고서에 없다. TCP 228 mm와 작업대 위 로봇 위치는 가정값이다.
 

diff --git a/docs/test-reports/V-01-04_블록쌓기실험_황인재_한세교_v1_100314.md b/docs/test-reports/V-01-04_블록쌓기실험_황인재_한세교_v1_100314.md
@@ -1,6 +1,6 @@
 # [10/3 검증] 작업1 블록 쌓기 실험 — 황인재·한세교
 
-> 10/3 사전 검증 작업 1의 결과 보고서(노션)를 저장소로 옮겼다. 내용은 그대로다. 영상(IMG_0290~0295)과 그림은 팀 노션 결과 페이지에 있다. 검증 수준: **손 실험**(로봇 없이 사람이 쌓음). 손가락 치수는 10/3 손 실측이고, 10/6에 다시 잰 값은 `robot.yaml`에 있다([결과표](../04_결과_결과표_v2_100713.md) §4).
+> 10/3 사전 검증 작업 1의 결과 보고서(노션)를 저장소로 옮겼다. 내용은 그대로다. 영상(IMG_0290~0295)과 그림은 팀 노션 결과 페이지에 있다. 검증 수준: **손 실험**(로봇 없이 사람이 쌓음). 손가락 치수는 10/3 손 실측이고, 10/6에 다시 잰 값은 `robot.yaml`에 있다([결과표](../04_결과_결과표_v2_100714.md) §4).
 
 - 날짜: 10/3 · 한 시간: 11:30 시작 ~ 14:25 정리
 - 잰 도구: 쇠자(캘리퍼스 없음 — 캘리퍼스가 오면 V-03을 다시 재서 이 보고서를 다음 판으로 올린다)
